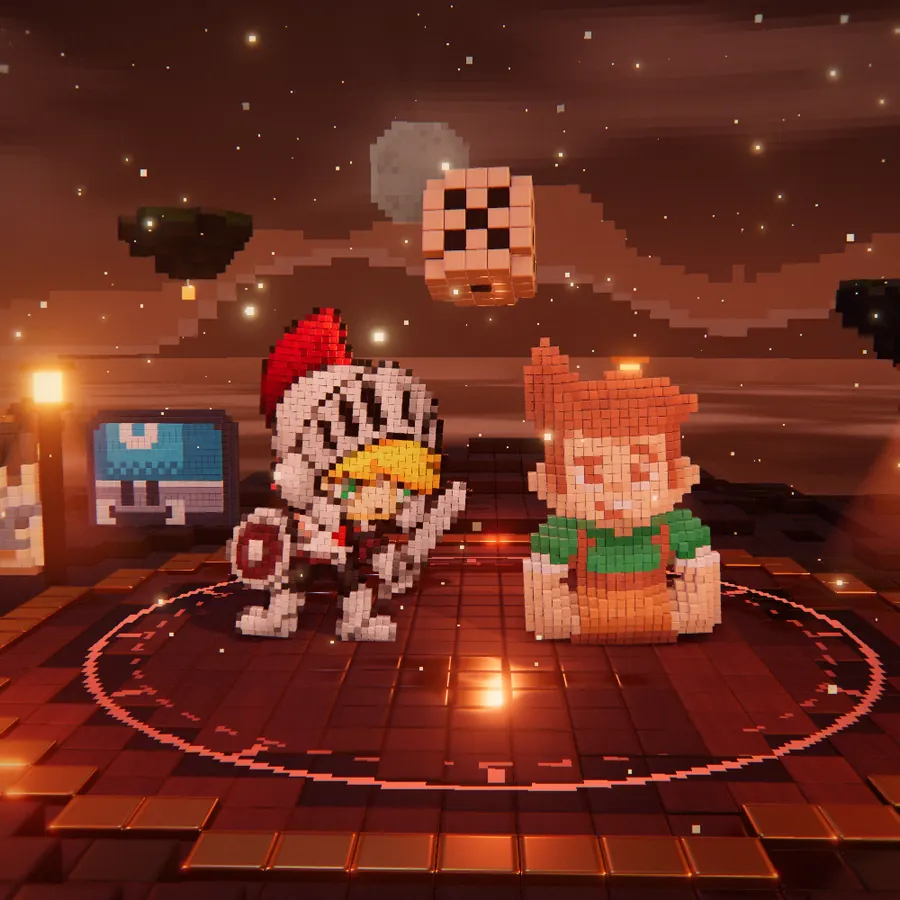
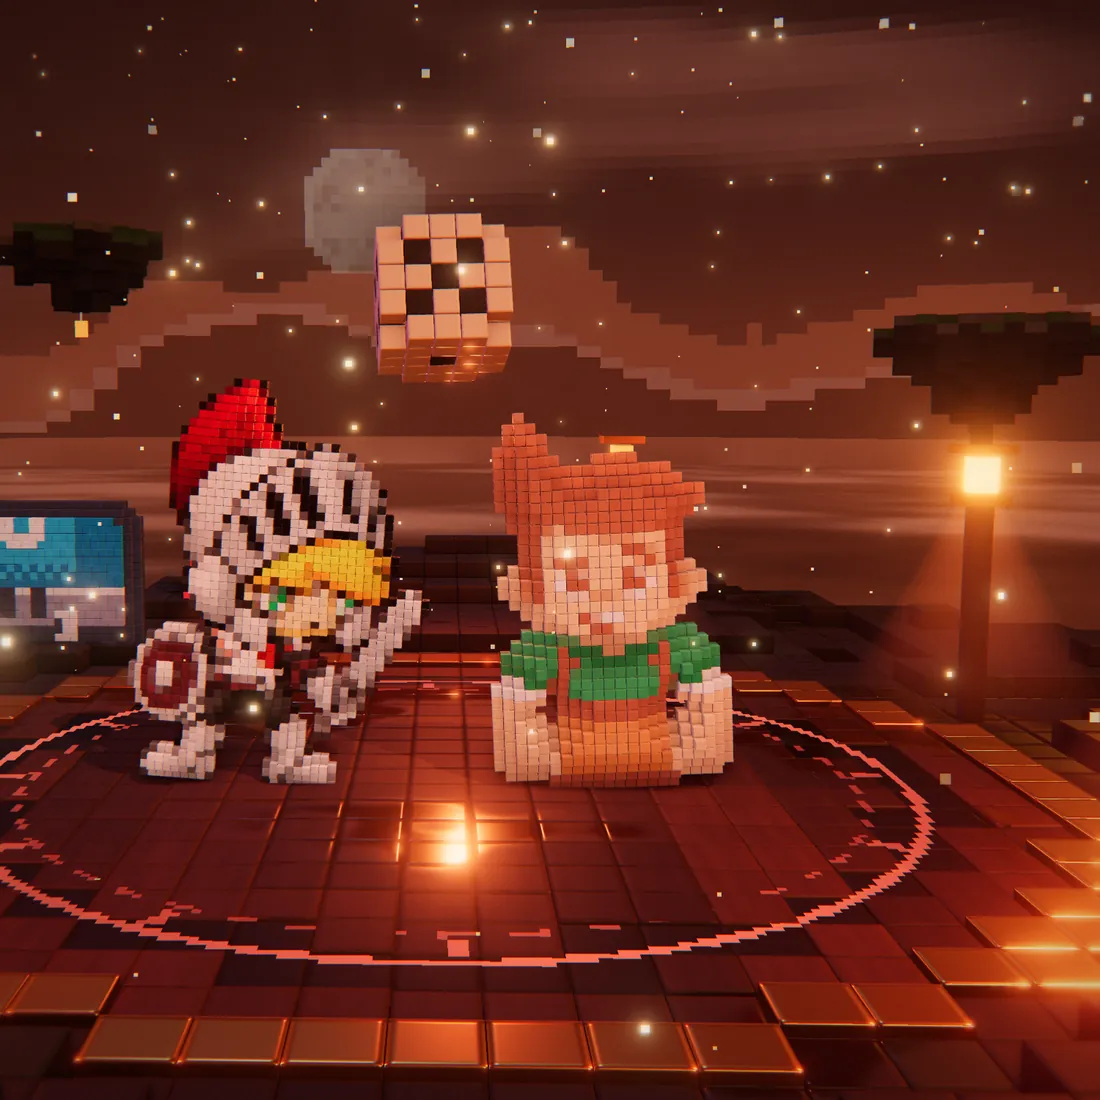
Phone Save bar stays put and the strip shows the whole fighter, desktop Ranks keeps the stage, admin gate splits picture and locked controls and shows the live arena, intro copy holds longer with a phone scroll hint and a clean hero scrim, sharper /start stills, picker's busiest channel leads

diff --git a/public/dashboard.css b/public/dashboard.css
@@ -1272,11 +1272,14 @@ main.page:has(> .ready:last-child) { padding-bottom: 0; }
 .peek-row .peek-btn { border-style: dashed; color: var(--text-3); background: none; }
 .peek-row .peek-link { text-decoration: none; color: var(--text-3); }
 .peek-row > span:first-child { color: var(--text-2); }
-/* Ranks and Rules are reading tabs: on desktop the stage steps aside and the table gets the full width */
+/* Ranks and Rules are reading tabs: on desktop the stage stays, so switching tabs never moves the page;
+   on phones the stuck stage steps aside so the table gets the screen */
 @media (min-width: 901px) {
-  html[data-tab="ranks"] .hero-grid:has(.has-3d), html[data-tab="rules"] .hero-grid:has(.has-3d) { grid-template-columns: minmax(0, 1fr); grid-template-areas: "copy" "pick"; }
-  html[data-tab="ranks"] .hero-card.has-3d, html[data-tab="rules"] .hero-card.has-3d { display: none; }
   #leaderboard td:nth-child(2), #leaderboard .lb-char { white-space: nowrap; }
+  .hero-pick [role="tabpanel"] { min-height: 640px; }
+}
+@media (max-width: 900px) {
+  html[data-tab="ranks"] .hero-card.has-3d, html[data-tab="rules"] .hero-card.has-3d { display: none; }
 }
 /* admin gate: the peek sits on a solid panel, so the scene behind never shows through it */
 .gate-inside .gate-peek, .gate-peek { background: var(--surface); }
@@ -1456,7 +1459,6 @@ body:has(> .scene-sky.is-ready)::before { display: none; }
 /* the picker and the builder are where "Pick your fighter" leads, so they drop it */
 .topbar nav a.nav-cta[aria-current] { display: none; }
 /* the picker: both channels get the same outlined button, filled on hover; rows read larger */
-.landing .channel-list li:first-child .channel-go { background: none; border-color: var(--trim); color: var(--accent-hover); }
 .landing .channel-list li .channel:hover .channel-go, .landing .channel-list li .channel:focus-visible .channel-go { background: var(--accent); border-color: var(--accent); color: var(--on-accent); }
 @media (min-width: 901px) {
   .landing .channel-list { max-width: 560px; }
@@ -1478,7 +1480,25 @@ body:has(> .scene-sky.is-ready)::before { display: none; }
   .gate-inside .gate-peek { margin: 0; border: 0; border-top: 1px solid var(--border-strong); border-radius: 0; padding: var(--space-4) var(--space-5); background: rgb(13 9 6 / .94); }
 }
 /* builder on a phone: once you scroll into the tabs, the stuck preview shrinks to a strip */
-@media (max-width: 480px) { html.compact .hero-card.has-3d .showcase { height: 120px; } }
+
 /* with no rule under the header, the picker's arena fades in from the top instead of starting on a hard edge */
 @media (min-width: 901px) { .landing-3d { mask-image: linear-gradient(to right, transparent 0%, rgba(0,0,0,.08) 12%, rgba(0,0,0,.3) 24%, rgba(0,0,0,.62) 36%, rgba(0,0,0,.88) 48%, #000 60%), linear-gradient(to bottom, transparent, #000 96px, #000 78%, transparent); -webkit-mask-image: linear-gradient(to right, transparent 0%, rgba(0,0,0,.08) 12%, rgba(0,0,0,.3) 24%, rgba(0,0,0,.62) 36%, rgba(0,0,0,.88) 48%, #000 60%), linear-gradient(to bottom, transparent, #000 96px, #000 78%, transparent); } }
 @media (max-width: 900px) { .landing-3d { mask-image: linear-gradient(to bottom, transparent, #000 48px, #000 62%, transparent); -webkit-mask-image: linear-gradient(to bottom, transparent, #000 48px, #000 62%, transparent); } }
+
+/* Round 27: the phone strip is tall enough to show the whole fighter */
+@media (max-width: 900px) { html.compact .hero-card.has-3d .showcase { height: 176px; } }
+/* admin gate: the arena picture and the locked controls are two stacked parts of one card, so the controls never cover the fighters */
+.gate-inside { display: flex; flex-direction: column; padding: 0; overflow: hidden; border: 1px solid var(--border-strong); border-radius: var(--radius); background: var(--bg); }
+.gate-inside::before { content: ""; flex: 1 1 auto; min-height: 220px;
+  background: linear-gradient(to bottom, rgb(12 9 7 / 0) 55%, rgb(12 9 7 / .55)), url("/assets/scene/arena-top.webp") 66% 42% / cover no-repeat; }
+.gate-inside .gate-peek { margin: 0; border: 0; border-top: 1px solid var(--border-strong); border-radius: 0; padding: var(--space-4) var(--space-5); background: var(--surface); }
+@media (max-width: 760px) {
+  .gate-inside { padding: 0; }
+  .gate-inside::before { min-height: 200px; background-image: linear-gradient(to bottom, rgb(12 9 7 / 0) 55%, rgb(12 9 7 / .55)), url("/assets/scene/arena-top-800.webp"); }
+  .gate-inside .gate-peek { padding: var(--space-4); }
+}
+.gate-proof { margin: var(--space-4) 0 0; padding-left: var(--space-3); border-left: 2px solid var(--trim); color: var(--text-2); font-size: var(--text-sm); }
+/* picker: the busiest channel's button leads (solid gold, from round 18); the fighter caption sits clear of the fold */
+.landing-who { bottom: calc(var(--space-6) + 24px); }
+/* credits: inline links get taller lines on phones so each is easy to tap */
+@media (max-width: 760px) { .caveat:has(a) { line-height: 2.2; } }

diff --git a/src/intro/intro.css b/src/intro/intro.css
@@ -89,7 +89,7 @@ kbd {
 .sound[aria-pressed="true"] .sound-bars i:nth-child(4) { animation-delay: -.15s; }
 @keyframes eq { 0%, 100% { height: 4px; } 25% { height: 12px; } 50% { height: 7px; } 75% { height: 14px; } }
 
-.scroll-hint { margin: 0; color: var(--text-3); font-size: 13px; display: flex; align-items: center; gap: 10px; transition: opacity .4s; }
+.scroll-hint { margin: 0; color: var(--text-2); font-size: 14px; display: flex; align-items: center; gap: 10px; transition: opacity .4s; }
 .scroll-hint::after { content: ""; width: 6px; height: 6px; background: var(--accent); animation: drip 1.6s steps(5) infinite; }
 @keyframes drip { 0% { transform: translateY(-6px); opacity: 0; } 30% { opacity: 1; } 100% { transform: translateY(8px); opacity: 0; } }
 body.scrolled .scroll-hint { opacity: 0; }
@@ -107,7 +107,7 @@ body:not(.scrolled) .hud-nav .btn { opacity: 0; visibility: hidden; }
 
 /* ---------- story ---------- */
 .story { position: relative; z-index: 3; pointer-events: none; overflow-x: clip; }   /* the shade behind right-hand copy reaches past the edge */
-.chapter { min-height: 150vh; display: flex; align-items: center; padding: 120px var(--edge); position: relative; }
+.chapter { min-height: 180vh; display: flex; align-items: center; padding: 120px var(--edge); position: relative; }
 .chapter.hero { min-height: 110vh; align-items: flex-end; padding-bottom: clamp(110px, 16vh, 180px); }
 .chapter.right { justify-content: flex-end; }
 .chapter.finale { min-height: 120vh; }
@@ -216,16 +216,19 @@ h2 { font-size: clamp(32px, 3.7vw, 54px); line-height: 1.04; }
   .hud-nav a:not(.btn) { display: none; }
   .hud-nav .btn { min-height: 36px; padding: 0 12px; font-size: 13px; }
   .mark { font-size: 19px; }
-  .scroll-hint { display: none; }
+  .scroll-hint { font-size: 13px; white-space: nowrap; }
+  .sound-label { display: none; }
   .rail { gap: 2px; }
   .rail a::before { width: 12px; }
   .rail li.is-on a::before { width: 18px; }
-  .chapter, .chapter.right { justify-content: flex-start; align-items: flex-end; padding: 96px 20px 96px; min-height: 140vh; }
+  .chapter, .chapter.right { justify-content: flex-start; align-items: flex-end; padding: 96px 20px 96px; min-height: 170vh; }
   .chapter.hero { min-height: 100svh; padding-bottom: 104px; }
   .copy { top: auto; bottom: 88px; position: sticky; max-width: none; }
   body:not(.no-motion) .copy, body:not(.no-motion) .chapter.right .copy, body:not(.no-motion) .chapter.hero .copy { top: auto; bottom: 84px; left: 20px; right: 20px; transform: translateY(24px); }
   body:not(.no-motion) .chapter.is-on .copy, body:not(.no-motion) .chapter.hero.is-on .copy { transform: none; }
-  .copy::before { inset: -32px -20px -24px -20px; background: linear-gradient(to top, rgb(13 9 6 / .9) 30%, rgb(13 9 6 / .62) 72%, rgb(13 9 6 / 0)); }
+  /* the hero copy stays in the flow (it scrolls away), so it uses the chapter padding, not the fixed offsets */
+  body:not(.no-motion) .chapter.hero .copy { left: 0; right: 0; bottom: 0; }
+  .copy::before { inset: -56px -20px -104px -20px; background: linear-gradient(to top, rgb(13 9 6 / .92) 40%, rgb(13 9 6 / .62) 78%, rgb(13 9 6 / 0)); }   /* reaches the bottom bar, so no edge sits under the text */
   h1 { font-size: clamp(38px, 11vw, 52px); }
   h2 { font-size: clamp(26px, 7.4vw, 34px); }
   .actions { gap: var(--space-4); }

diff --git a/start/index.html b/start/index.html
@@ -43,7 +43,7 @@
       <li><strong>Add the overlay to OBS</strong> Make it a Browser Source at 1920×1080. The setup page gives you the link.<div class="step-mock" aria-hidden="true"><span>Browser Source · URL</span><span class="field">pixfray.xyz/<wbr>overlay.html?<wbr>channel=you</span><span>Width 1920 · Height 1080</span></div></li>
       <li><strong>Turn off the Duel module</strong> It's a built-in StreamElements module. With it off, only one bot answers duel commands.<div class="step-mock" aria-hidden="true"><span class="row"><span class="mod">Duel module</span><span class="switch"></span></span><span class="row"><span class="mod">PixFray commands</span><span class="switch on"></span></span><span>One bot answers each duel</span></div></li>
       <li><strong>Paste 7 commands into StreamElements</strong> Each reply is ready to copy: <code>!challenge</code>, <code>!fight</code>, <code>!decline</code>, <code>!rematch</code>, <code>!elo</code>, <code>!ranks</code> and <code>!fray</code>. You can rename them.<div class="step-mock" aria-hidden="true"><span class="row"><span class="mod">!challenge</span><span class="btn-mock">Copy reply</span></span><span class="line"><b>kai</b> !challenge @rin</span><span class="line"><b>StreamElements</b> @kai challenges @rin! @rin, type !fight to fight.</span></div></li>
-      <li class="optional"><strong>Let your moderators help <span class="badge">Optional</span></strong> They can manage fighters, ranks and settings.<div class="step-mock" aria-hidden="true"><span class="row"><span class="mod">Your moderators can</span><span class="eg">Example</span></span><span class="row"><span>Pause duels</span><span class="switch on"></span></span><span class="row"><span>Reset health</span><span class="btn-mock">Reset</span></span></div></li>
+      <li class="optional"><strong>Let your moderators <span class="nowrap">help <span class="badge">Optional</span></span></strong> They can manage fighters, ranks and settings.<div class="step-mock" aria-hidden="true"><span class="row"><span class="mod">Your moderators can</span><span class="eg">Example</span></span><span class="row"><span>Pause duels</span><span class="switch on"></span></span><span class="row"><span>Reset health</span><span class="btn-mock">Reset</span></span></div></li>
     </ol>
     <figure class="story-stage" aria-hidden="true"><canvas id="story-scene"></canvas><figcaption id="story-cap">Your overlay draws the arena over your game.</figcaption></figure>
     </div>

diff --git a/src/dashboard.js b/src/dashboard.js
@@ -10,7 +10,6 @@ applyChannel();
 
 const SWATCHES = ["#a78bfa", "#60a5fa", "#34d399", "#fbbf24", "#f87171", "#f472b6", "#e5e7eb", "#22d3ee"];
 const form = $("#profile-form"), saveBtn = $("#save"), saveSignin = $("#save-signin"), status = $("#save-status");
-let lastY = 0, travel = 0, away = false;   // the phone Save bar (tuckSaveBar)
 const colorInput = $("#color");
 // Cosmetic kinds (server/cosmetics.js): the profile field that wears each, how its tiles look, and its words.
 const KINDS = {
@@ -747,13 +746,11 @@ async function channelRanks(channel, link, crew, meta) {
   }
   for (const p of rows.slice(0, 3)) if (byId.get(p.avatar)) add(byId.get(p.avatar), "sprite");
 }
-// Phones: the fixed Save bar stays tucked away on the first screen, while scrolling down, and on Ranks and Rules,
-// unless there is something to save or say. Scrolling back up brings it back.
+// Phones: the fixed Save bar stays put while you pick; it steps aside only on Ranks and Rules,
+// unless there is something to save or say.
 function tuckSaveBar() {
   const root = document.documentElement, quiet = !status.textContent && !dirty();
-  travel += scrollY - lastY; lastY = scrollY;
-  if (Math.abs(travel) > 24) { away = travel > 0; travel = 0; }
-  root.classList.toggle("bar-away", quiet && (away || root.dataset.tab === "ranks" || root.dataset.tab === "rules"));
+  root.classList.toggle("bar-away", quiet && (root.dataset.tab === "ranks" || root.dataset.tab === "rules"));
   root.classList.toggle("at-top", quiet && scrollY < 40);
 }
 function watchSaveBar() {

diff --git a/src/admin.js b/src/admin.js
@@ -104,6 +104,19 @@ function gate(text, actions = []) {
   $("#gate").hidden = false; $("#app").hidden = true;
   $("#gate-text").textContent = text;
   $("#gate-actions").replaceChildren(...actions);
+  gateProof();
+}
+// the gate shows the arena these controls run, live: whether duels are on and who leads (public data only)
+let proofLoaded = false;
+async function gateProof() {
+  if (proofLoaded) return; proofLoaded = true;
+  const [st, lb] = await Promise.all([api("/api/state/" + CHANNEL), api("/api/leaderboard/" + CHANNEL)]);
+  if (!st.ok && !lb.ok) return;
+  const ranked = lb.ok && Array.isArray(lb.data) ? lb.data.filter((p) => p.wins + p.losses > 0).sort((a, b) => b.elo - a.elo) : [];
+  const parts = [];
+  if (st.ok) parts.push(st.data.paused || st.data.config?.enabled === false ? "duels are paused" : "duels are running");
+  if (lb.ok) parts.push(ranked.length ? ranked.length + " ranked fighter" + (ranked.length === 1 ? "" : "s") + ", " + (ranked[0].displayName || ranked[0].username) + " leads at " + ranked[0].elo + " Elo" : "no ranked duels yet");
+  const p = $("#gate-proof"); p.textContent = "Right now in " + CHANNEL + "'s arena: " + parts.join("; ") + "."; p.hidden = false;
 }
 async function init() {
   // a slow or rate-limited check shouldn't leave the gate blank: offer sign-in while it finishes

diff --git a/src/fighter3d.js b/src/fighter3d.js
@@ -106,8 +106,8 @@ export function createFighter3D(canvas, { zoom = 1 } = {}) {
       camera.aspect = w / h;
       // frame the fighter: wider cards pull back a little so the arena shows around it
       // ...but a short, wide card (the phone's sticky stage) steps in so the fighter fills its height
-      const strip = camera.aspect > 1.5 && h < 320, dist = strip ? 4.8 : (6.0 + Math.max(0, camera.aspect - 0.8) * 0.4) / zoom;
-      camera.position.set(0, strip ? 1.5 : 1.85, dist); camera.lookAt(0, strip ? 1.1 : 1.3, 0); camera.updateProjectionMatrix();
+      const strip = camera.aspect > 1.5 && h < 320, dist = strip ? 5.4 : (6.0 + Math.max(0, camera.aspect - 0.8) * 0.4) / zoom;
+      camera.position.set(0, strip ? 1.5 : 1.85, dist); camera.lookAt(0, strip ? 0.95 : 1.3, 0); camera.updateProjectionMatrix();
       embers.material.uniforms.uPx.value = dpr * h / 900;
       dirty = true;
     }

diff --git a/src/start.js b/src/start.js
@@ -47,7 +47,7 @@ const signIn = (login, mods = true) => h("a", { class: mods ? "btn btn-primary" 
 
 async function init() {
   if (!token) {
-    show("PixFray is invite-only right now", "Ask nesszerra for an invite link. It names your Twitch account and works for 7 days. Already have one? Open it, and this card shows your sign-in.",
+    show("PixFray is invite-only right now", "Ask nesszerra, who runs PixFray, for an invite link. It names your Twitch account and works for 7 days. Already have one? Open it, and this card shows your sign-in.",
       [h("a", { class: "btn btn-primary", href: "https://www.twitch.tv/nesszerra", rel: "noopener" }, "Ask for an invite on Twitch"), h("a", { class: "text-link", href: "/intro/" }, "See how a duel plays out")]);
     return;
   }

diff --git a/src/intro/main.js b/src/intro/main.js
@@ -98,7 +98,7 @@ document.addEventListener('focusin', (e) => {
 });
 // the rail follows the nearest chapter; the copy shows only near a chapter's centre, so text never sits on a scene change
 function setChapter(c) {
-  const i = Math.round(c), copy = reduced || Math.abs(c - i) < (innerWidth < innerHeight ? 0.4 : 0.36) ? i : -1;   // phones: the copy sits under the scene, so it can stay on longer
+  const i = Math.round(c), copy = reduced || Math.abs(c - i) < (innerWidth < innerHeight ? 0.4 : 0.45) ? i : -1;   // phones: the copy sits under the scene, so it can stay on longer
   if (copy !== activeCopy) { activeCopy = copy; sections.forEach((s, k) => s.classList.toggle('is-on', k === copy)); }
   if (i === activeChapter) return;
   activeChapter = i;

diff --git a/admin/index.html b/admin/index.html
@@ -25,6 +25,7 @@
       <h2 id="gate-title">Streamer and mods only</h2>
       <p id="gate-text">Checking your access…</p>
       <div class="toolbar" id="gate-actions"></div>
+      <p class="gate-proof" id="gate-proof" role="status" hidden></p>
       <div class="gate-list">
         <h3>Inside</h3>
         <ul>
